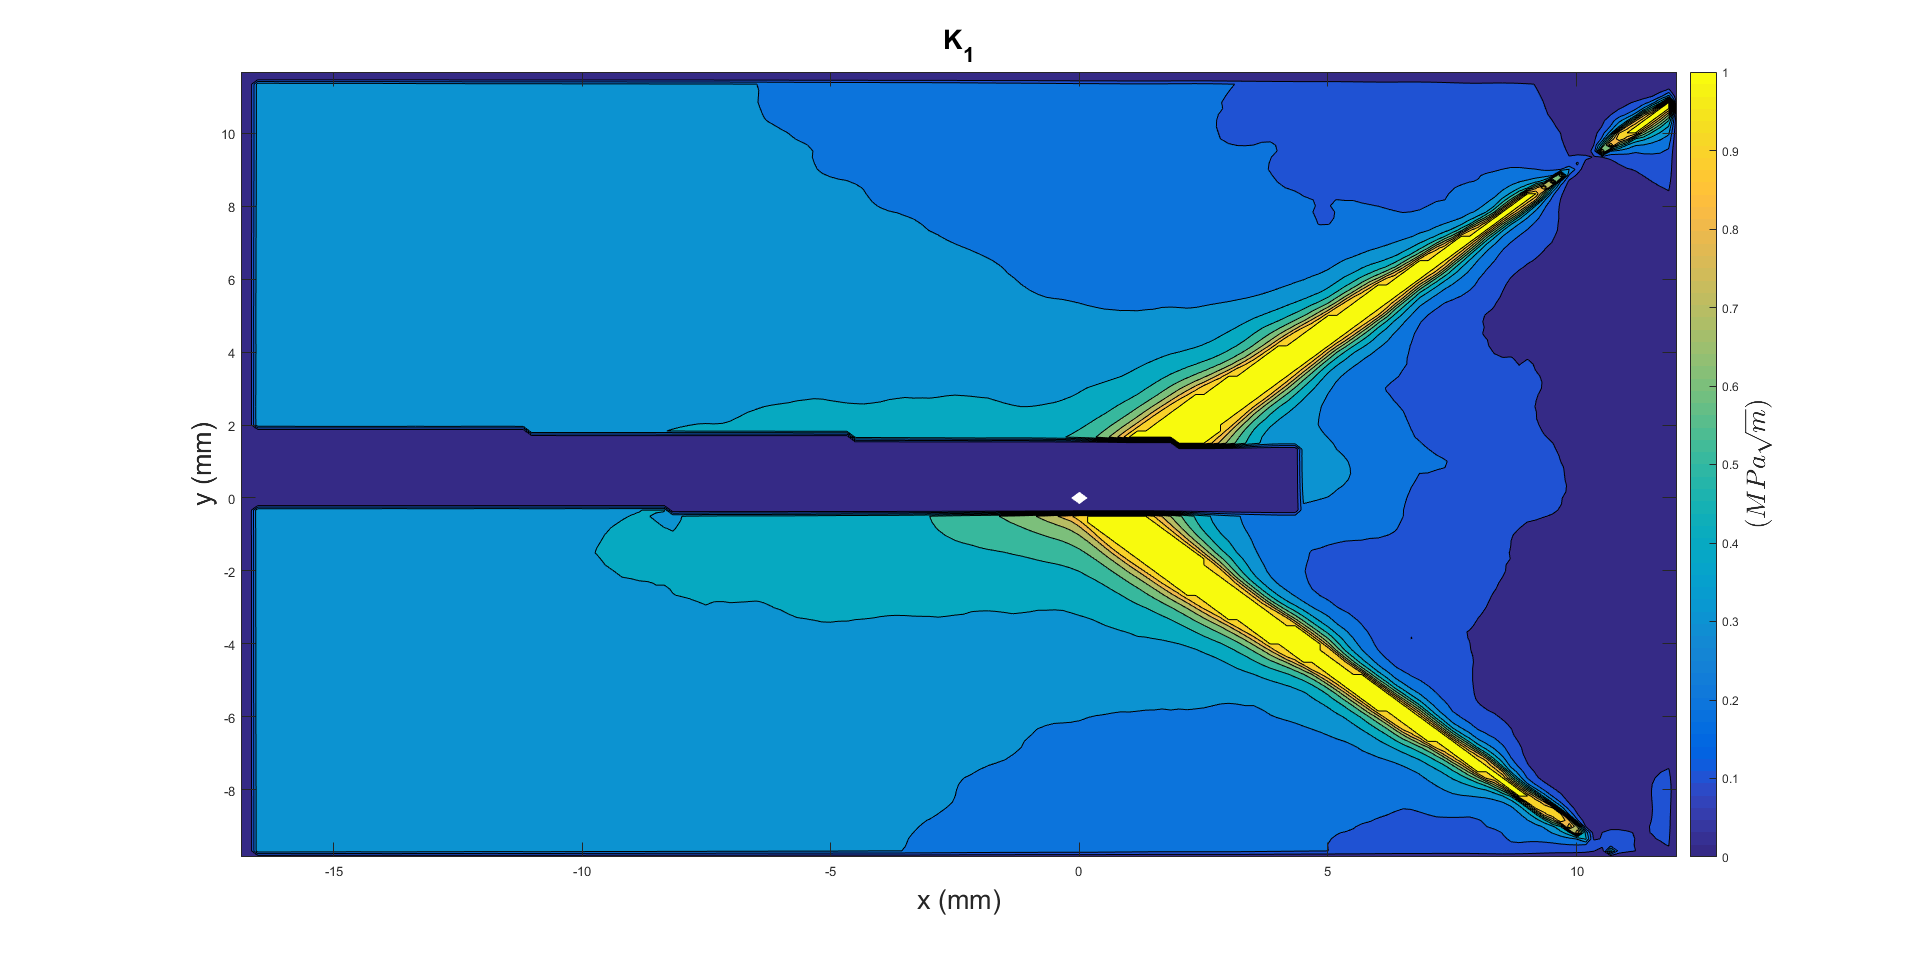
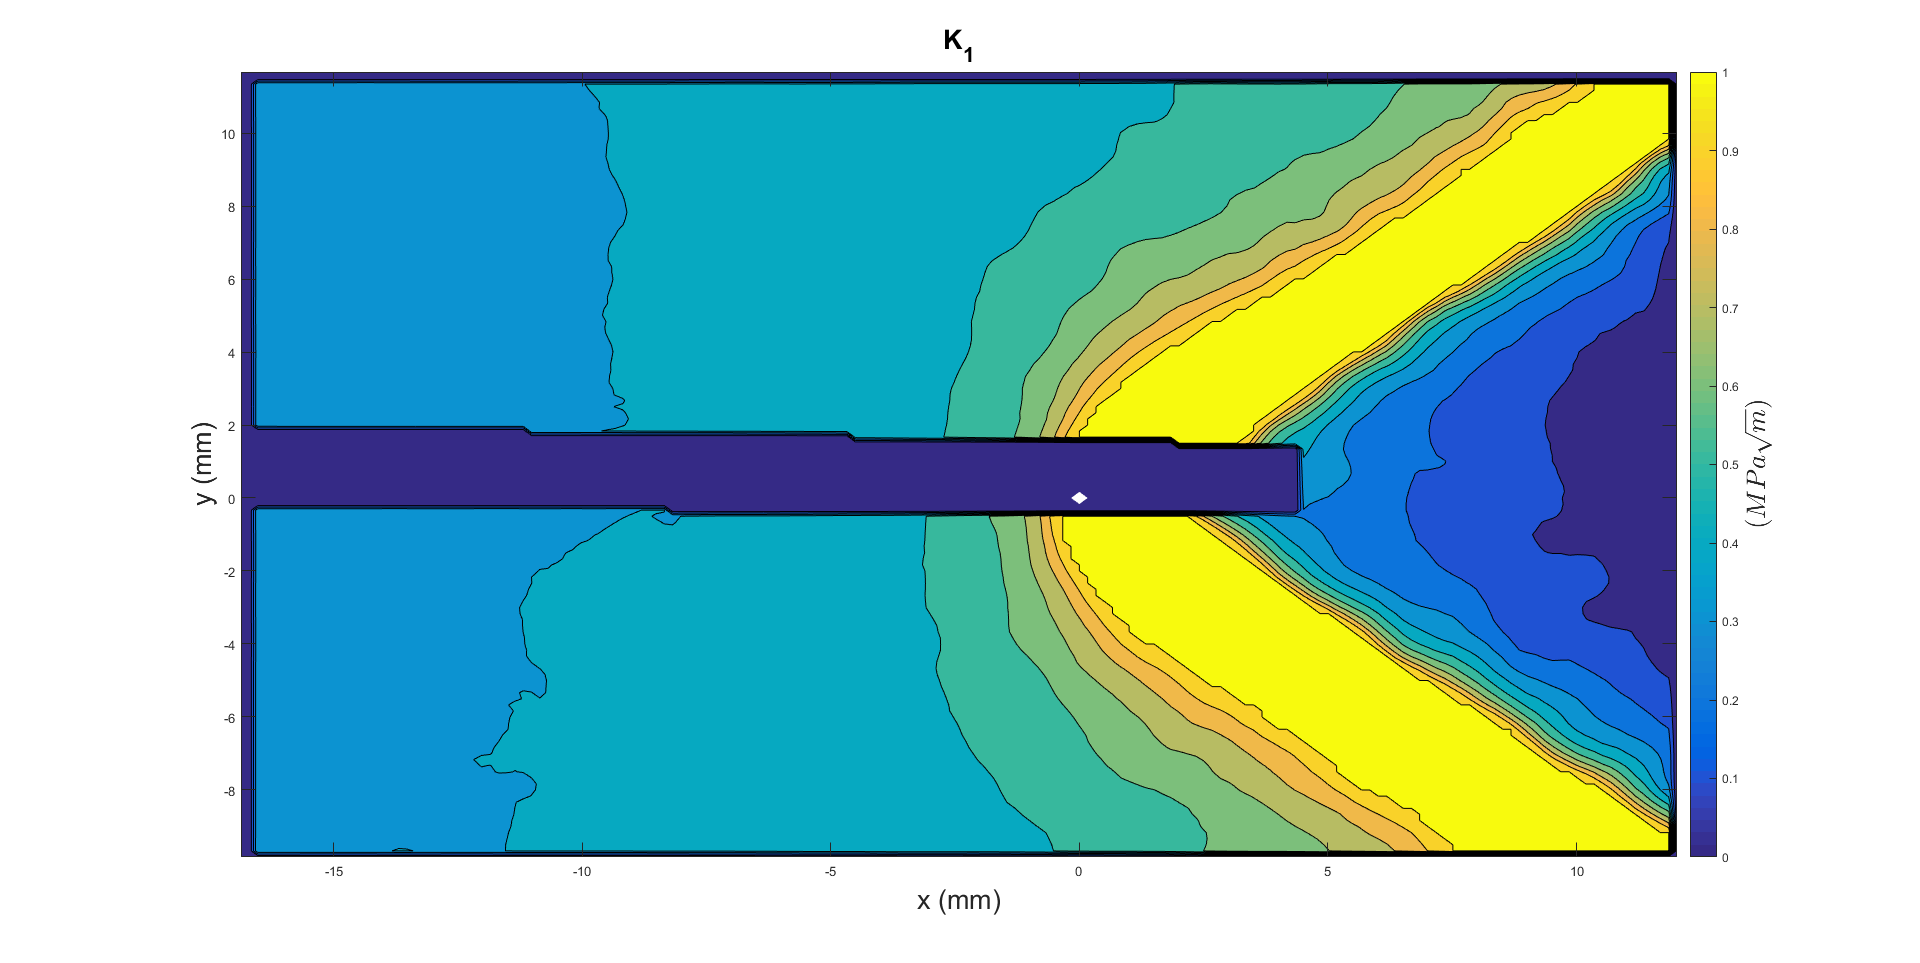
fixed mixed mode code and figures

diff --git a/Mixed_Mode_Analysis/MixedModeAnalysis.m b/Mixed_Mode_Analysis/MixedModeAnalysis.m
@@ -47,7 +47,7 @@ for i=1:length(filename)
             F_1_v=1/(8*mu*pi)*sqrt(2*pi*r)*((2*kappa+1)*sin(theta/2)-sin(3*theta/2));
             F_2_u=1/(8*mu*pi)*sqrt(2*pi*r)*((2*kappa+3)*sin(theta/2)+sin(3*theta/2));
             F_2_v=1/(8*mu*pi)*sqrt(2*pi*r)*((2*kappa-3)*cos(theta/2)+cos(3*theta/2));
-            F=[F_1_u, F_1_v; F_2_u, F_2_v];
+            F=[F_1_u, F_1_v; F_2_u, F_2_v]';
             u=[data.u(j,k);data.v(j,k)];
             %             u=data.v(j,k);
             %             F=F_1_u;
